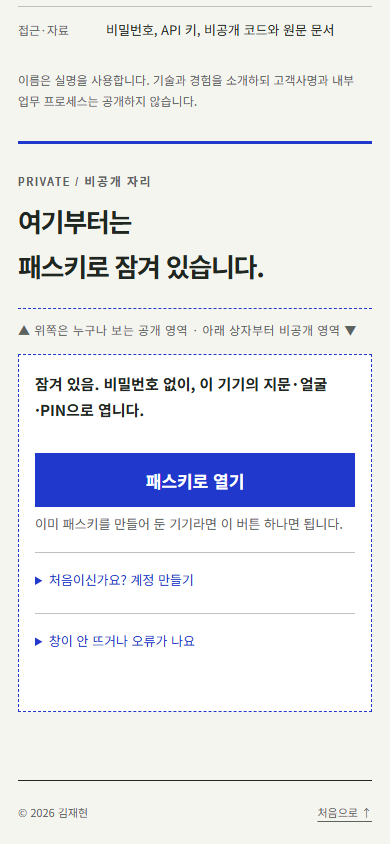
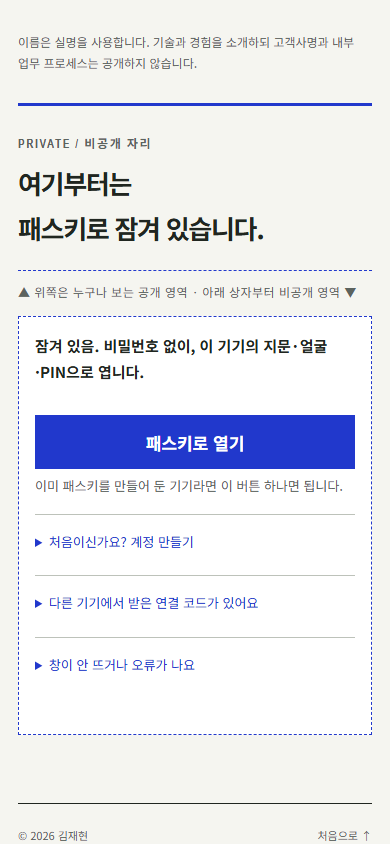
Add typed connection code as an alternative to the device link

diff --git a/public/index.html b/public/index.html
@@ -65,6 +65,8 @@
 .vault-more summary:focus-visible{outline:3px solid var(--accent);outline-offset:3px}
 .vault-warn{margin:8px 0 12px;padding:10px 12px;border-left:3px solid #b3261e;background:#fdf1ef;font-size:13px;line-height:1.7}
 .vault-actions{margin-top:12px}
+.vault-code{margin:6px 0 10px;font-size:13px;color:var(--muted)}
+.vault-code strong{display:inline-block;margin-left:8px;padding:6px 12px;border:1px dashed var(--accent);color:var(--ink);font:700 20px/1.3 ui-monospace,Consolas,monospace;letter-spacing:.12em}
 .vault-badge{display:inline-block;font-size:11px;padding:1px 7px;border:1px solid var(--accent);color:var(--accent);margin-left:6px}
 @media print{.vault{display:none}}
 </style>
@@ -116,6 +118,16 @@
 </form>
 </details>
 
+<details class="vault-more" id="vaultCode">
+<summary>다른 기기에서 받은 연결 코드가 있어요</summary>
+<form id="vaultCodeForm">
+<p class="vault-note">이미 로그인한 기기에서 "다른 기기 연결"로 만든 코드를 입력하면, 이 기기가 같은 계정에 연결됩니다.</p>
+<label for="vaultCodeInput">연결 코드 (예: ABCD-EFGH-JKMN)</label>
+<input id="vaultCodeInput" maxlength="20" autocomplete="off" autocapitalize="characters" required>
+<button type="submit" class="vault-btn">이 기기 연결하기</button>
+</form>
+</details>
+
 <details class="vault-more">
 <summary>창이 안 뜨거나 오류가 나요</summary>
 <p class="vault-note">기본값은 "자동"입니다. USB 보안 키 창만 뜨거나 "기기를 사용할 수 없음"이 나오면 Chrome·Edge·Safari로 열거나 아래에서 바꿔 보세요. 이 선택은 "계정 만들기"에만 적용됩니다.</p>
@@ -157,7 +169,8 @@
 <button type="button" id="vaultInviteMake" class="vault-btn">다른 기기 연결 (휴대폰 등)</button>
 </div>
 <div id="vaultInviteResult" hidden>
-<p class="vault-note">연결할 기기(휴대폰 등)에서 이 링크를 여세요. 카카오톡 나에게 보내기나 메일이 편합니다. <strong>10분 안에 한 번만</strong> 쓸 수 있고, 남에게 보내면 안 됩니다.</p>
+<p class="vault-note">연결할 기기(휴대폰 등)에서 <strong>아래 링크를 열거나</strong>, 그 기기에서 이 사이트를 열고 <strong>연결 코드를 입력</strong>하세요. 카톡이 링크를 잘라 버리면 코드를 쓰세요. <strong>10분 안에 한 번만</strong> 쓸 수 있고, 남에게 보내면 안 됩니다.</p>
+<p class="vault-code" aria-label="연결 코드">연결 코드 <strong id="vaultInviteCode"></strong></p>
 <div class="vault-inline">
 <input id="vaultInviteUrl" readonly aria-label="다른 기기 연결 링크">
 <button type="button" id="vaultInviteCopy" class="vault-btn ghost">링크 복사</button>

diff --git a/api/private/[action].js b/api/private/[action].js
@@ -1,5 +1,5 @@
 import { db } from '../../lib/db.mjs';
-import { send, log, sameOriginJson, body, currentUser, rp, sha256, newToken } from '../../lib/http.mjs';
+import { send, log, sameOriginJson, body, currentUser, rp, sha256, newInviteCode, formatInviteCode } from '../../lib/http.mjs';
 
 const INVITE_MS = 10 * 60 * 1000;
 
@@ -37,13 +37,13 @@ export default async function handler(req, res) {
     if (action === 'invite') {
       if (req.method !== 'POST') return send(res, 405, { error: 'METHOD_NOT_ALLOWED' });
       if (!sameOriginJson(req)) return send(res, 403, { error: 'BAD_ORIGIN' });
-      const token = newToken();
+      const code = newInviteCode();
       await db().saveChallenge({
-        challenge: 'invite:' + sha256(token), kind: 'register', userId: user.id,
+        challenge: 'invite:' + sha256(code), kind: 'register', userId: user.id,
         expiresAt: new Date(Date.now() + INVITE_MS).toISOString(),
       });
       log('invite_created');
-      return send(res, 201, { url: `${rp(req).origin}/?link=${token}#vault`, expiresInSeconds: INVITE_MS / 1000 });
+      return send(res, 201, { code: formatInviteCode(code), url: `${rp(req).origin}/?link=${formatInviteCode(code)}#vault`, expiresInSeconds: INVITE_MS / 1000 });
     }
 
     if (action === 'passkeys') {

diff --git a/public/passkey.js b/public/passkey.js
@@ -212,6 +212,7 @@
     $('vaultKeys').replaceChildren();
     $('vaultInviteResult').hidden = true;
     $('vaultInviteUrl').value = '';
+    $('vaultInviteCode').textContent = '';
   }
 
   async function showOpen() {
@@ -240,10 +241,20 @@
     });
   });
 
+  $('vaultCodeForm').addEventListener('submit', (e) => {
+    e.preventDefault();
+    const code = $('vaultCodeInput').value.trim();
+    run(async () => {
+      say('기기의 패스키 만들기 창을 기다리는 중…');
+      if (await register({ invite: code })) { say('이 기기를 내 계정에 연결했습니다.', 'ok'); await showOpen(); }
+    });
+  });
+
   $('vaultInviteMake').addEventListener('click', () => run(async () => {
     const r = await api('/api/private/invite', { method: 'POST', data: {} });
     if (!r.ok) return say(errText(r), 'error');
     $('vaultInviteUrl').value = r.json.url;
+    $('vaultInviteCode').textContent = r.json.code;
     $('vaultInviteResult').hidden = false;
     say('연결 링크를 만들었습니다. 연결할 기기에서 열어 주세요.', 'ok');
   }));

diff --git a/api/auth/[action].js b/api/auth/[action].js
@@ -6,7 +6,7 @@ import { randomUUID } from 'node:crypto';
 import { db } from '../../lib/db.mjs';
 import {
   send, log, rp, sameOriginJson, body, currentUser, startSession, clearCookie,
-  readCookie, sha256, clientChallenge, CHALLENGE_MS,
+  readCookie, sha256, clientChallenge, normalizeInvite, CHALLENGE_MS,
 } from '../../lib/http.mjs';
 
 const RP_NAME = '김재현 포트폴리오';
@@ -32,7 +32,7 @@ async function registerOptions(req, res) {
   // 링크는 여기서 소모하지 않고, 등록 검증이 끝날 때 한 번만 소모한다(중간에 취소해도 다시 시도 가능).
   let inviteKey = null;
   if (b.invite) {
-    inviteKey = 'invite:' + sha256(String(b.invite));
+    inviteKey = 'invite:' + sha256(normalizeInvite(b.invite));
     const inv = await db().peekChallenge(inviteKey, 'register');
     user = inv ? await db().getUser(inv.userId) : null;
     if (!user) return send(res, 400, { error: 'INVITE_INVALID' });

diff --git a/docs/인증-구현-설명서.md b/docs/인증-구현-설명서.md
@@ -36,7 +36,7 @@
 3. 비공개 요청: 쿠키의 세션으로만 사용자를 정합니다. 주소나 본문에 적힌 사용자 ID는 읽지 않습니다.
 4. 로그아웃: DB의 세션 행을 지웁니다. 같은 쿠키 값으로 다시 요청해도 401입니다.
 
-다른 기기(휴대폰 등)를 같은 계정에 연결하는 방법은 연결 링크입니다. 로그인한 기기에서 "다른 기기 연결"을 누르면 서버가 10분짜리 일회용 토큰을 만들고(DB에는 해시만 저장), 링크 `https://…/?link=토큰`을 보여 줍니다. 새 기기가 이 링크를 열고 지문·얼굴·PIN으로 확인하면 그 기기의 패스키가 같은 계정에 추가됩니다. 처음에는 토큰을 주소의 `#` 뒤에 뒀는데, 카카오톡을 거치면 그 부분이 잘려 연결이 안 되는 일이 있어 `?link=` 쪽으로 옮겼습니다. 그 대신 토큰이 호스팅 서비스의 요청 로그에 남을 수 있어, 10분·1회 사용으로 위험을 줄였습니다. 화면 코드는 토큰을 읽자마자 주소창에서 지웁니다. 링크는 등록 검증이 끝날 때 한 번만 소모되며, 중간에 취소하면 다시 시도할 수 있습니다. 이 방법을 만든 이유는, 폰의 iCloud 패스키가 PC의 구글 패스키를 볼 수 없어 폰에서 로그인하면 별개 계정이 생기는 실제 문제가 있었기 때문입니다.
+다른 기기(휴대폰 등)를 같은 계정에 연결하는 방법은 연결 링크입니다. 로그인한 기기에서 "다른 기기 연결"을 누르면 서버가 10분짜리 일회용 연결 코드(XXXX-XXXX-XXXX, 12자, 헷갈리는 글자 제외)를 만들고(DB에는 해시만 저장), 코드와 링크 `https://…/?link=코드`를 보여 줍니다. 새 기기가 이 링크를 열거나 사이트 첫 화면에서 코드를 직접 입력하고 지문·얼굴·PIN으로 확인하면 그 기기의 패스키가 같은 계정에 추가됩니다. 처음에는 링크만 있었고 토큰을 주소의 `#` 뒤에 뒀는데, 카카오톡을 거치면 그 부분이 잘려 연결이 안 되는 일이 있어 `?link=` 쪽으로 옮겼습니다. 그래도 카톡 카드에서 링크가 잘려 보이는 일이 있어, 글자로 옮길 수 있는 코드 입력 방법을 추가했습니다. 그 대신 토큰이 호스팅 서비스의 요청 로그에 남을 수 있어, 10분·1회 사용으로 위험을 줄였습니다. 화면 코드는 토큰을 읽자마자 주소창에서 지웁니다. 링크는 등록 검증이 끝날 때 한 번만 소모되며, 중간에 취소하면 다시 시도할 수 있습니다. 이 방법을 만든 이유는, 폰의 iCloud 패스키가 PC의 구글 패스키를 볼 수 없어 폰에서 로그인하면 별개 계정이 생기는 실제 문제가 있었기 때문입니다.
 
 패스키는 계정당 여러 개 등록할 수 있습니다. 마지막 하나는 지울 수 없습니다(409). 지우면 그 계정으로 다시 들어올 방법이 없기 때문입니다. 패스키 목록에는 이름, 등록·마지막 사용 시각, 저장 위치(기기 전용인지, 구글 비밀번호 관리자·iCloud로 동기화되는지)가 보입니다. 저장 위치는 등록 때 인증기가 알려 준 값(`credentialDeviceType`, `credentialBackedUp`)입니다.
 
@@ -44,7 +44,7 @@
 
 `scripts/e2e.mjs`가 크롬 가상 인증기로 실제 서버에 요청을 보내 확인합니다. 결과는 `evidence/e2e-result.json`, 화면은 `evidence/*.png`입니다.
 
-로컬 서버를 실제 Supabase에 붙여 44개 확인이 모두 통과했습니다(메모리 저장소로도 같은 결과). 이 중 핵심 네 가지입니다.
+로컬 서버를 실제 Supabase에 붙여 48개 확인이 모두 통과했습니다(메모리 저장소로도 같은 결과). 이 중 핵심 네 가지입니다.
 
 | 확인 | 결과 |
 |---|---|
